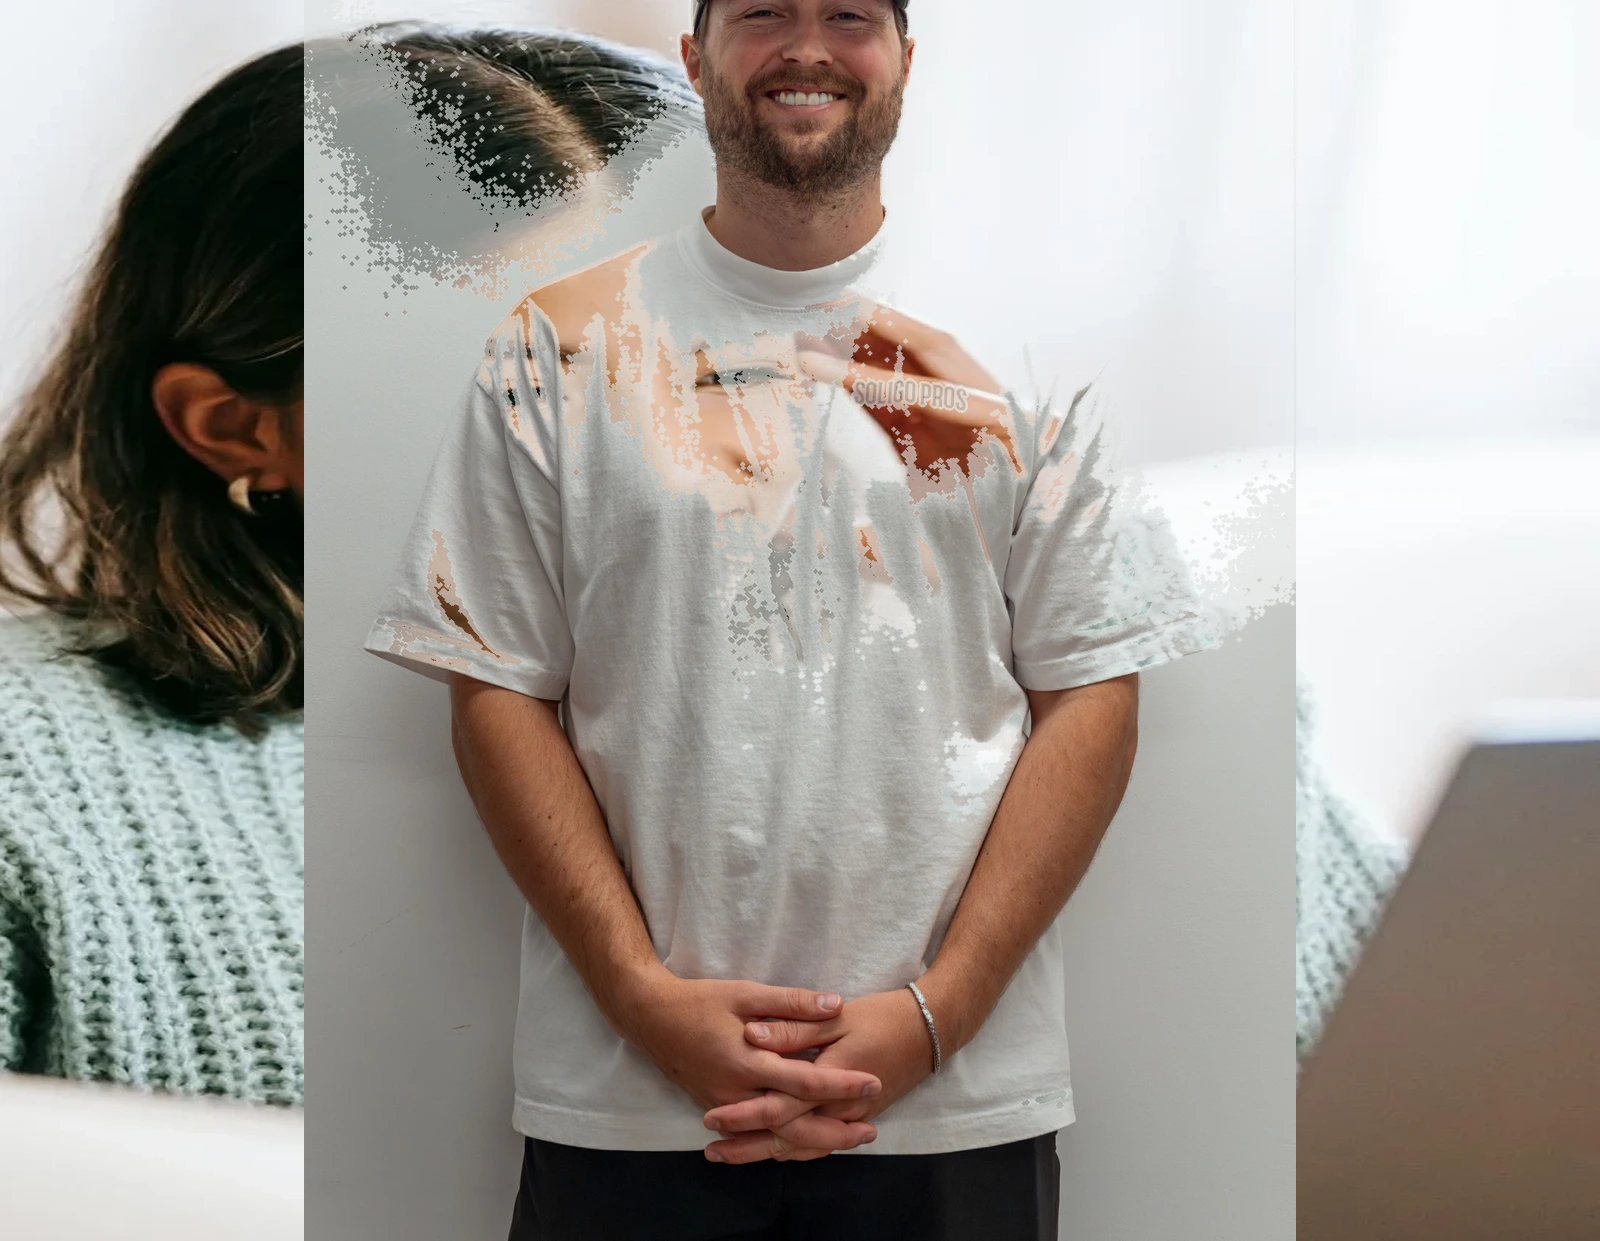
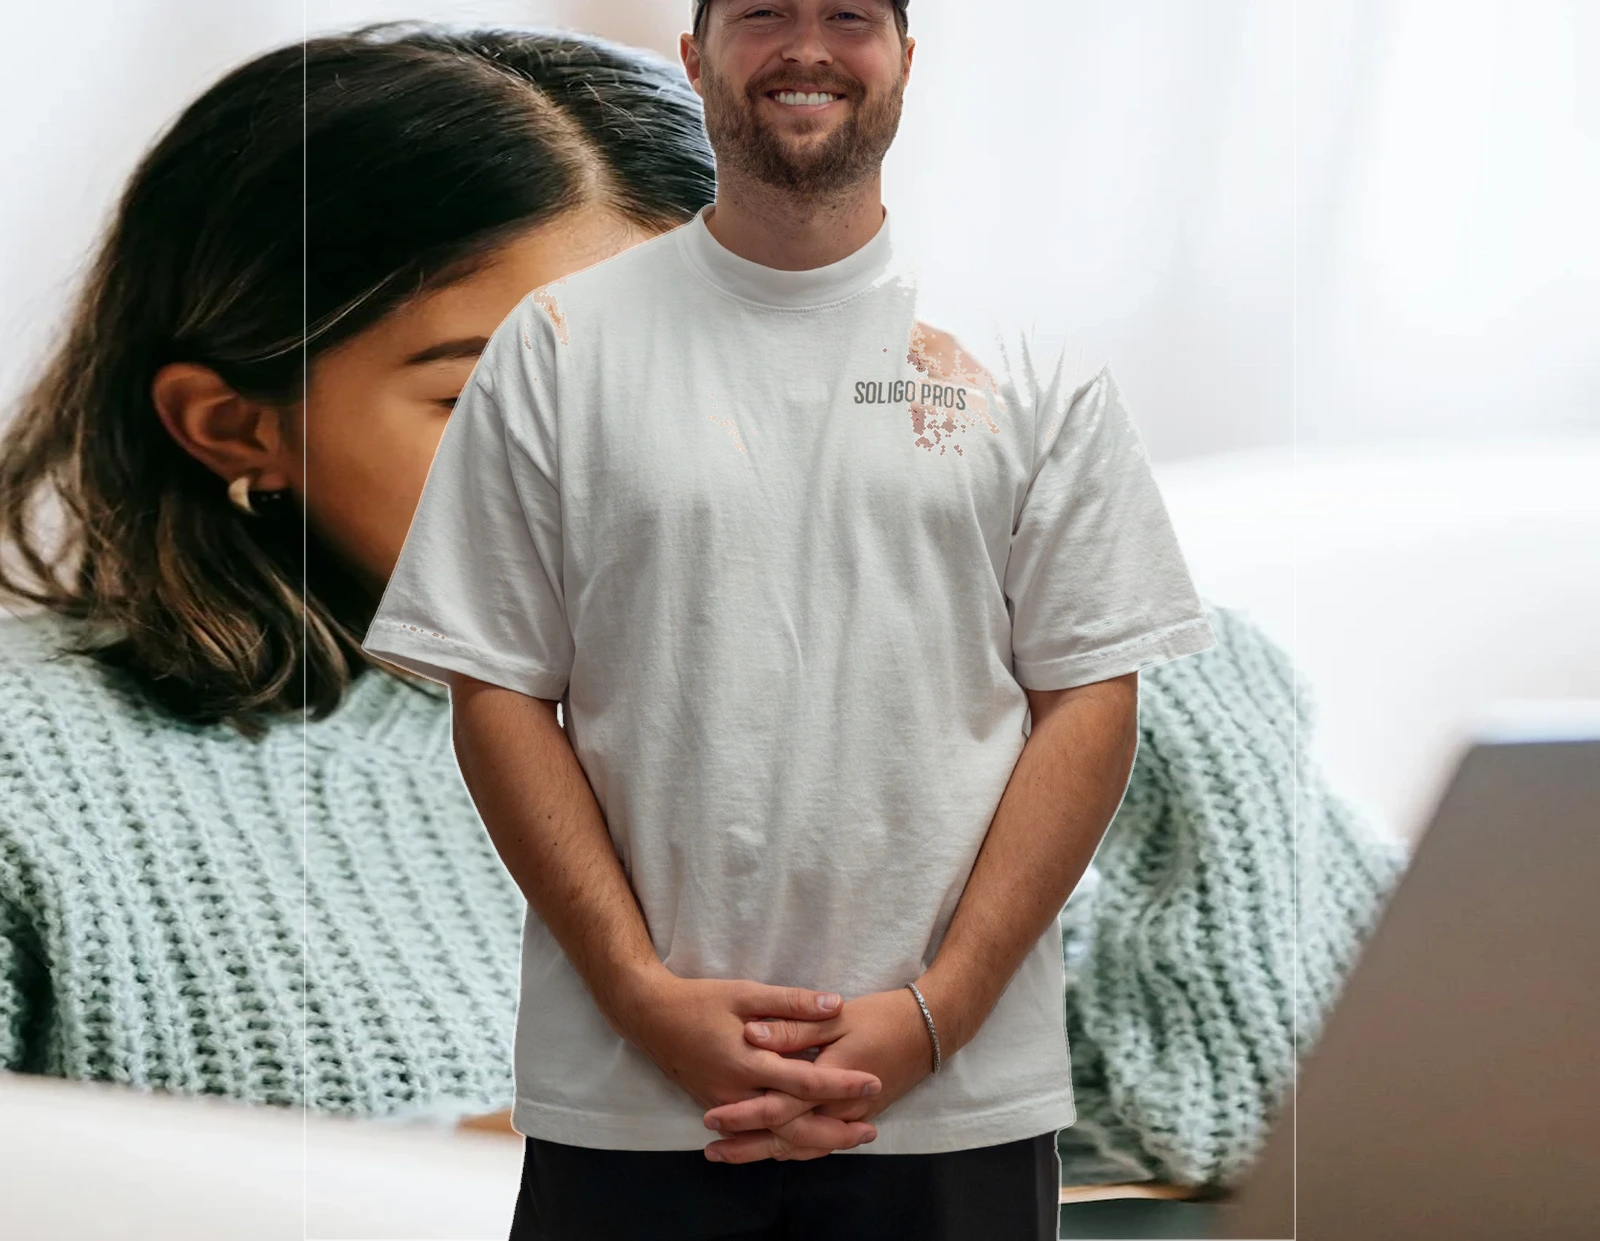
Update Austin photos: new clean cutout in about + team CTA panel

diff --git a/index.html b/index.html
@@ -459,7 +459,7 @@
                                         <a class="btn-main ms-3" href="tel:3213847868">Call (321) 384-7868</a>
                                     </div>
                                     <div class="col-lg-4 text-center">
-                                        <img src="images/team/1.webp" class="img-fluid rounded-10px wow scaleIn" alt="">
+                                        <img src="images/team/austin-team.webp" class="img-fluid rounded-10px wow scaleIn" alt="Austin — Soligo Air Founder">
                                         <h5 class="mt-3 mb-0">Austin &amp; Jaime</h5>
                                         <p class="small mb-2">Soligo Air Founders</p>
                                     </div>
